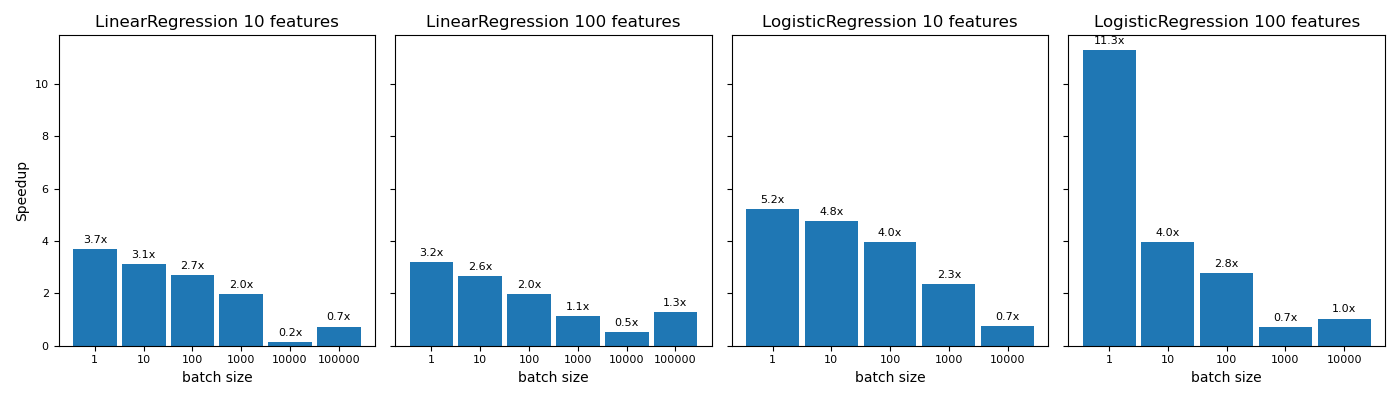
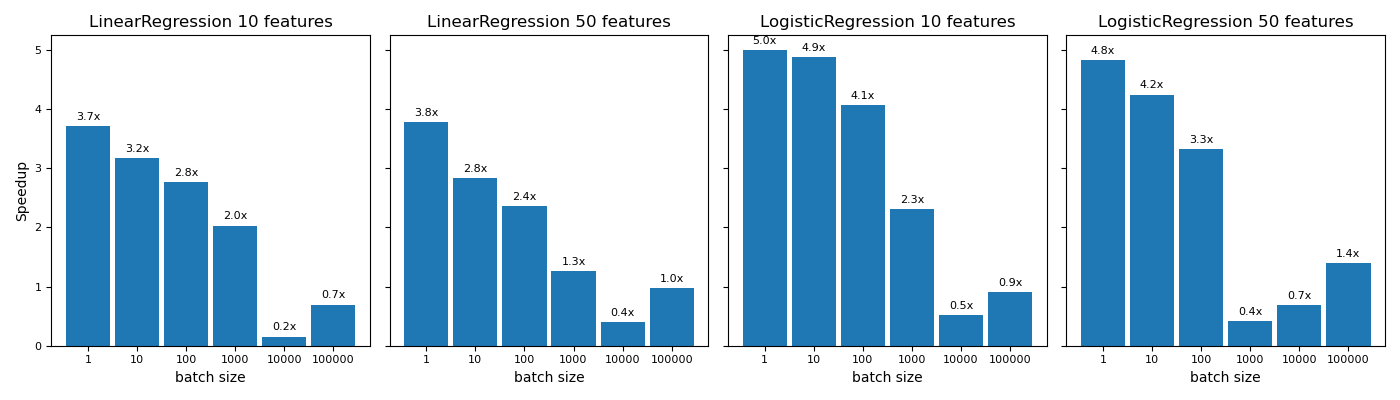
update script

diff --git a/benchmarks/results/post_graph.py b/benchmarks/results/post_graph.py
@@ -20,7 +20,7 @@ def linear_models():
     dfc = dfc[(dfc.method == "predict_proba") & (dfc.fit_intercept == True)]
     dfc["speedup"] = dfc["time_skl"] / dfc["time_ort"]
 
-    nfeats = [10, 100]
+    nfeats = [10, 50]
     fig, axs = plt.subplots(1, len(nfeats) * 2, figsize=(14, 4), sharey=True)
 
     names = ["LinearRegression", "LogisticRegression"]
